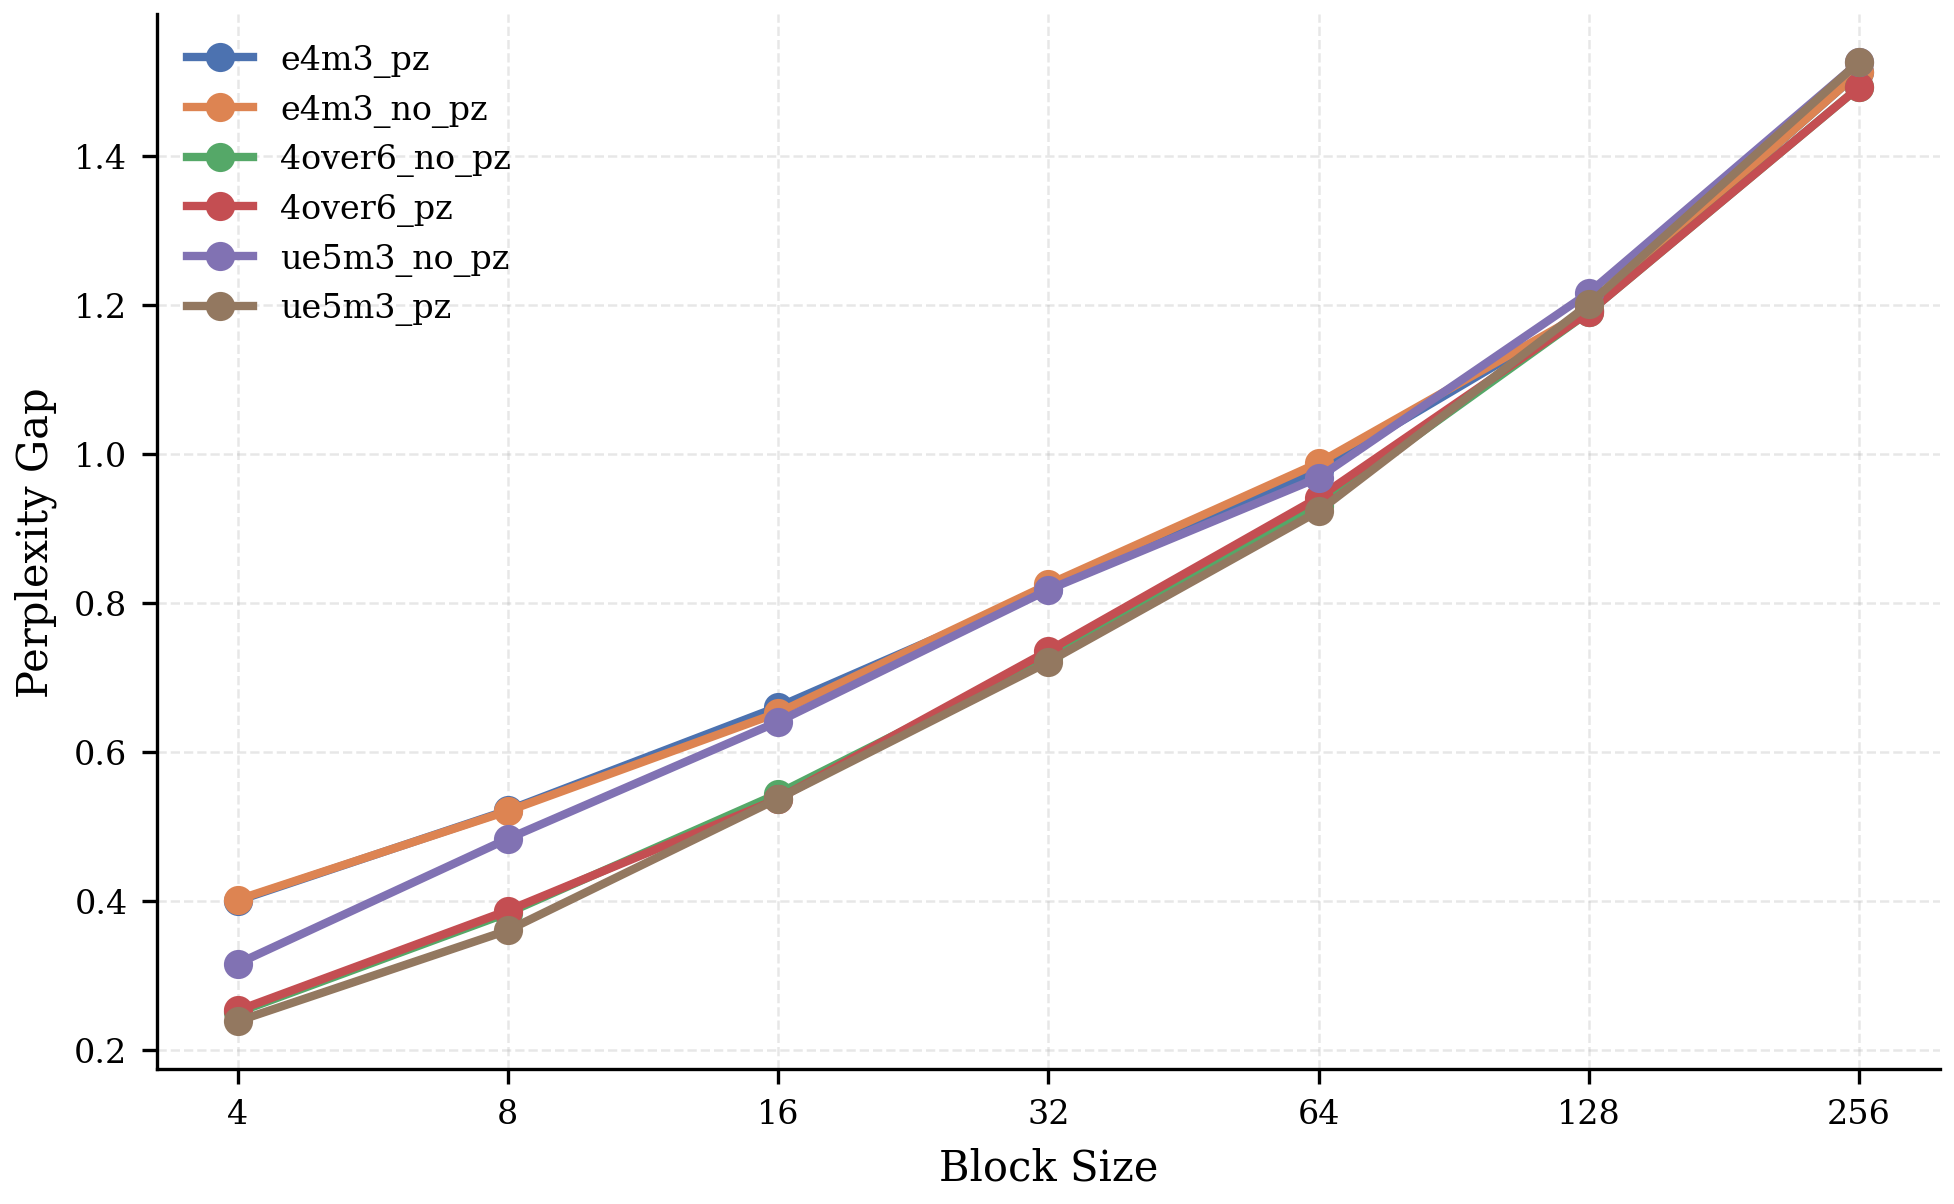
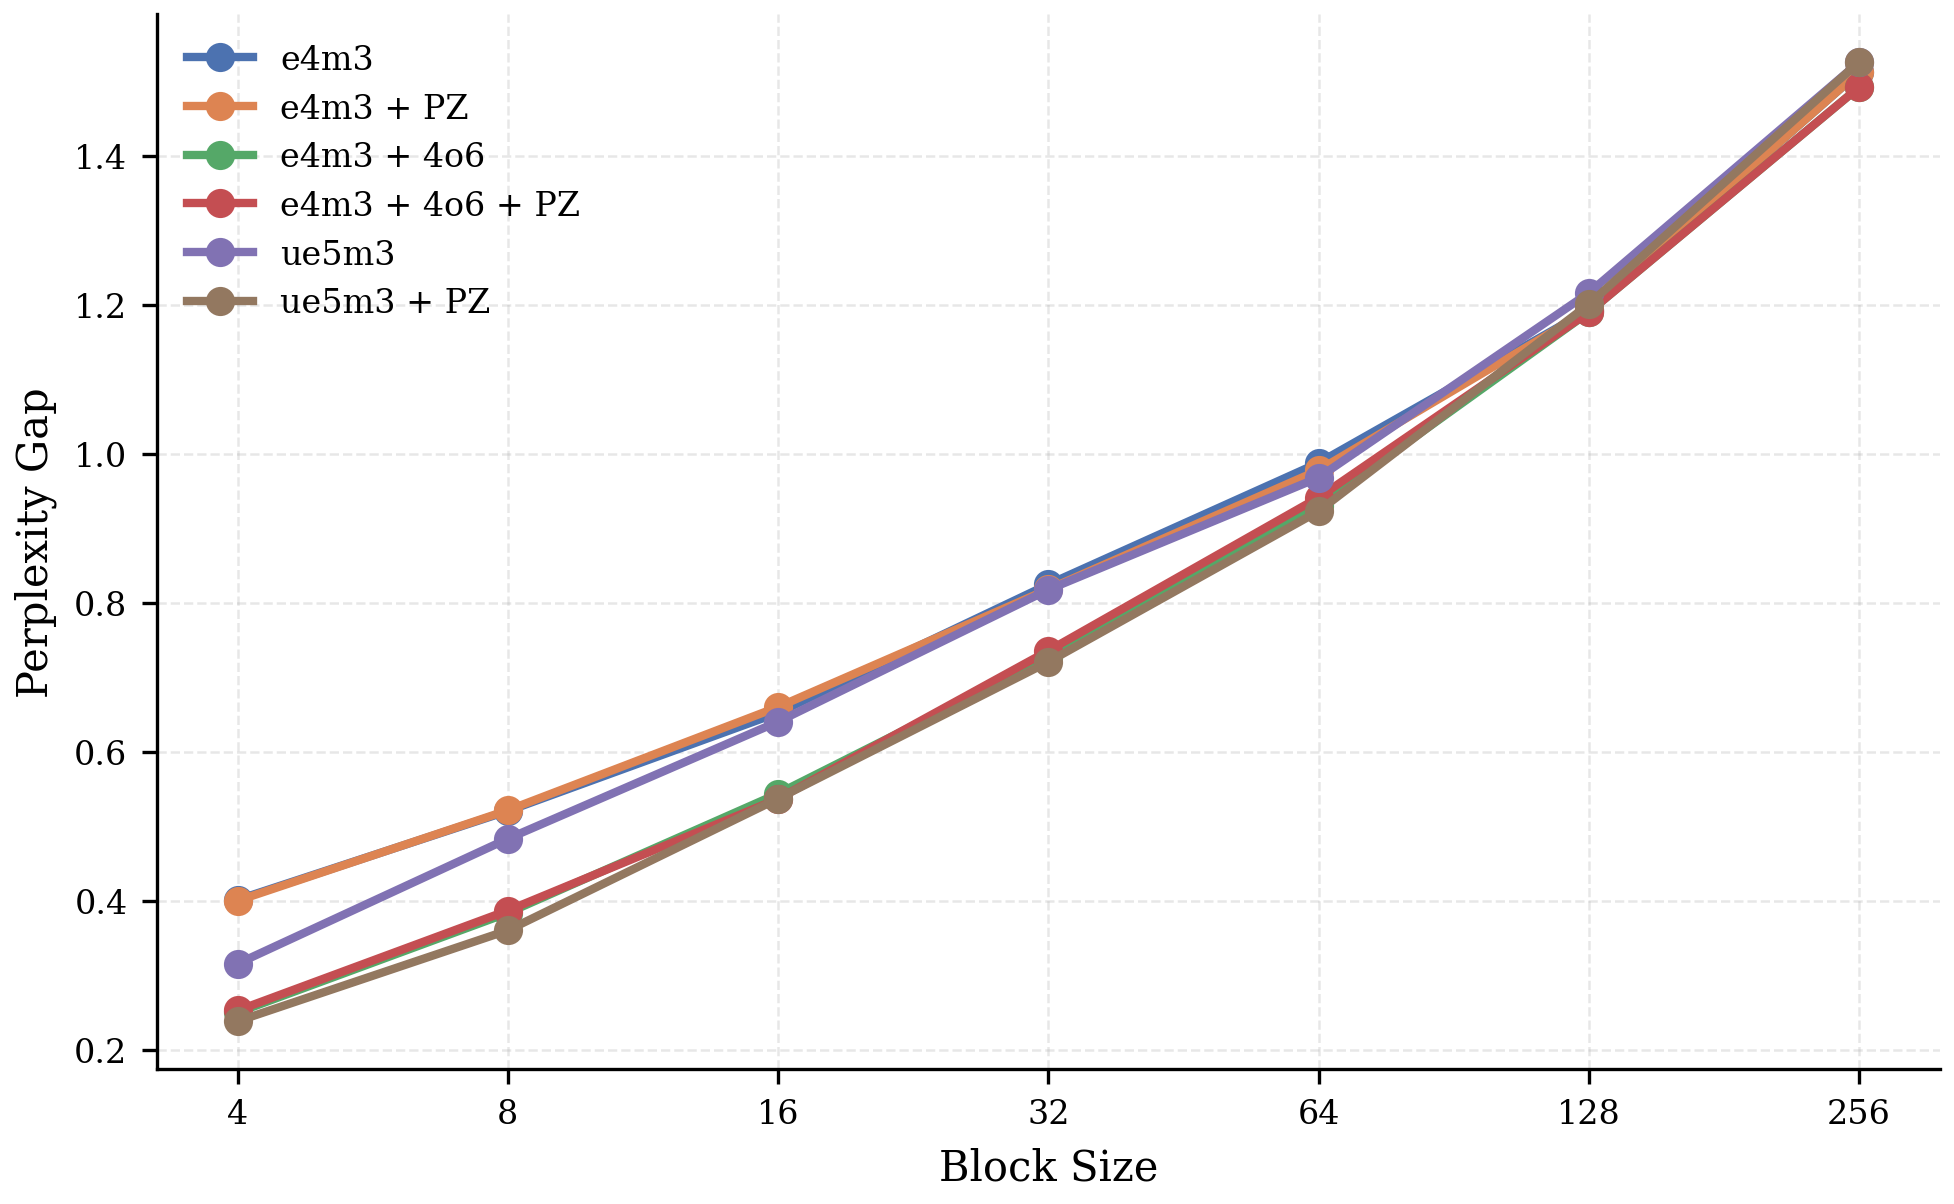
Remove phantom baseline rows and clean up tables

diff --git a/README.md b/README.md
@@ -65,42 +65,42 @@ This section is automatically updated by the evaluation script after each run. D
 
 ### DeepSeek
 
-|              |   Baseline |   BS=4 |   BS=8 |   BS=16 |   BS=32 |   BS=64 |   BS=128 |   BS=256 |
-|:-------------|-----------:|-------:|-------:|--------:|--------:|--------:|---------:|---------:|
-| e4m3_pz      |        nan |   0.4  |   0.52 |    0.66 |    0.82 |    0.98 |     1.19 |     1.51 |
-| e4m3_no_pz   |        nan |   0.4  |   0.52 |    0.65 |    0.82 |    0.99 |     1.19 |     1.51 |
-| 4over6_no_pz |        nan |   0.25 |   0.38 |    0.54 |    0.73 |    0.93 |     1.19 |     1.49 |
-| 4over6_pz    |        nan |   0.25 |   0.39 |    0.54 |    0.74 |    0.94 |     1.19 |     1.49 |
-| ue5m3_no_pz  |        nan |   0.32 |   0.48 |    0.64 |    0.82 |    0.97 |     1.22 |     1.53 |
-| ue5m3_pz     |        nan |   0.24 |   0.36 |    0.54 |    0.72 |    0.92 |     1.2  |     1.53 |
+|                 |   Baseline |   BS=4 |   BS=8 |   BS=16 |   BS=32 |   BS=64 |   BS=128 |   BS=256 |
+|:----------------|-----------:|-------:|-------:|--------:|--------:|--------:|---------:|---------:|
+| e4m3            |        nan |   0.4  |   0.52 |    0.65 |    0.82 |    0.99 |     1.19 |     1.51 |
+| e4m3 + PZ       |        nan |   0.4  |   0.52 |    0.66 |    0.82 |    0.98 |     1.19 |     1.51 |
+| e4m3 + 4o6      |        nan |   0.25 |   0.38 |    0.54 |    0.73 |    0.93 |     1.19 |     1.49 |
+| e4m3 + 4o6 + PZ |        nan |   0.25 |   0.39 |    0.54 |    0.74 |    0.94 |     1.19 |     1.49 |
+| ue5m3           |        nan |   0.32 |   0.48 |    0.64 |    0.82 |    0.97 |     1.22 |     1.53 |
+| ue5m3 + PZ      |        nan |   0.24 |   0.36 |    0.54 |    0.72 |    0.92 |     1.2  |     1.53 |
 
 ### Granite
 
-|              |   Baseline |   BS=4 |   BS=8 |   BS=16 |   BS=32 |   BS=64 |   BS=128 |   BS=256 |
-|:-------------|-----------:|-------:|-------:|--------:|--------:|--------:|---------:|---------:|
-| e4m3_pz      |        nan |   0.96 |   0.88 |    0.83 |    0.87 |    0.96 |     1.13 |     1.5  |
-| e4m3_no_pz   |        nan |   1.06 |   0.89 |    0.83 |    0.86 |    0.96 |     1.13 |     1.5  |
-| 4over6_no_pz |        nan |   0.62 |   0.67 |    0.75 |    0.88 |    0.97 |     1.13 |     1.48 |
-| 4over6_pz    |        nan |   0.62 |   0.67 |    0.75 |    0.89 |    0.97 |     1.13 |     1.48 |
-| ue5m3_no_pz  |        nan |   0.16 |   0.23 |    0.3  |    0.38 |    0.57 |     0.79 |     1.19 |
-| ue5m3_pz     |        nan |   0.11 |   0.17 |    0.25 |    0.36 |    0.57 |     0.77 |     1.23 |
+|                 |   Baseline |   BS=4 |   BS=8 |   BS=16 |   BS=32 |   BS=64 |   BS=128 |   BS=256 |
+|:----------------|-----------:|-------:|-------:|--------:|--------:|--------:|---------:|---------:|
+| e4m3            |        nan |   1.06 |   0.89 |    0.83 |    0.86 |    0.96 |     1.13 |     1.5  |
+| e4m3 + PZ       |        nan |   0.96 |   0.88 |    0.83 |    0.87 |    0.96 |     1.13 |     1.5  |
+| e4m3 + 4o6      |        nan |   0.62 |   0.67 |    0.75 |    0.88 |    0.97 |     1.13 |     1.48 |
+| e4m3 + 4o6 + PZ |        nan |   0.62 |   0.67 |    0.75 |    0.89 |    0.97 |     1.13 |     1.48 |
+| ue5m3           |        nan |   0.16 |   0.23 |    0.3  |    0.38 |    0.57 |     0.79 |     1.19 |
+| ue5m3 + PZ      |        nan |   0.11 |   0.17 |    0.25 |    0.36 |    0.57 |     0.77 |     1.23 |
 
 ### Llama
 
-|              |   Baseline |   BS=4 |   BS=8 |   BS=16 |   BS=32 |   BS=64 |   BS=128 |   BS=256 |
-|:-------------|-----------:|-------:|-------:|--------:|--------:|--------:|---------:|---------:|
-| 4over6_pz    |       6.33 |   0.34 |   0.4  |    0.51 |    0.62 |    0.75 |     0.88 |     1.08 |
-| ue5m3_pz     |       6.33 |   0.19 |   0.32 |    0.47 |    0.58 |    0.73 |     0.88 |     1.09 |
-| ue5m3_no_pz  |       6.33 |   0.28 |   0.39 |    0.53 |    0.62 |    0.74 |     0.86 |     1.09 |
-| e4m3_no_pz   |       6.33 |   0.81 |   0.65 |    0.62 |    0.67 |    0.75 |     0.88 |     1.07 |
-| e4m3_pz      |       6.33 |   0.68 |   0.63 |    0.62 |    0.66 |    0.76 |     0.89 |     1.07 |
-| 4over6_no_pz |       6.33 |   0.36 |   0.41 |    0.51 |    0.61 |    0.75 |     0.88 |     1.08 |
+|                 |   Baseline |   BS=4 |   BS=8 |   BS=16 |   BS=32 |   BS=64 |   BS=128 |   BS=256 |
+|:----------------|-----------:|-------:|-------:|--------:|--------:|--------:|---------:|---------:|
+| e4m3            |       6.33 |   0.81 |   0.65 |    0.62 |    0.67 |    0.75 |     0.88 |     1.07 |
+| e4m3 + PZ       |       6.33 |   0.68 |   0.63 |    0.62 |    0.66 |    0.76 |     0.89 |     1.07 |
+| e4m3 + 4o6      |       6.33 |   0.36 |   0.41 |    0.51 |    0.61 |    0.75 |     0.88 |     1.08 |
+| e4m3 + 4o6 + PZ |       6.33 |   0.34 |   0.4  |    0.51 |    0.62 |    0.75 |     0.88 |     1.08 |
+| ue5m3           |       6.33 |   0.28 |   0.39 |    0.53 |    0.62 |    0.74 |     0.86 |     1.09 |
+| ue5m3 + PZ      |       6.33 |   0.19 |   0.32 |    0.47 |    0.58 |    0.73 |     0.88 |     1.09 |
 
 ### Qwen
 
-|            |   Baseline |   BS=4 |   BS=8 |   BS=16 |   BS=32 |   BS=64 |   BS=128 |   BS=256 |
-|:-----------|-----------:|-------:|-------:|--------:|--------:|--------:|---------:|---------:|
-| e4m3_no_pz |        nan |   0.47 |   0.49 |    0.56 |    0.65 |    0.81 |     1.04 |     1.49 |
+|      |   Baseline |   BS=4 |   BS=8 |   BS=16 |   BS=32 |   BS=64 |   BS=128 |   BS=256 |
+|:-----|-----------:|-------:|-------:|--------:|--------:|--------:|---------:|---------:|
+| e4m3 |        nan |   0.47 |   0.49 |    0.56 |    0.65 |    0.81 |     1.04 |     1.49 |
 
 ### Graphs
 <table>
